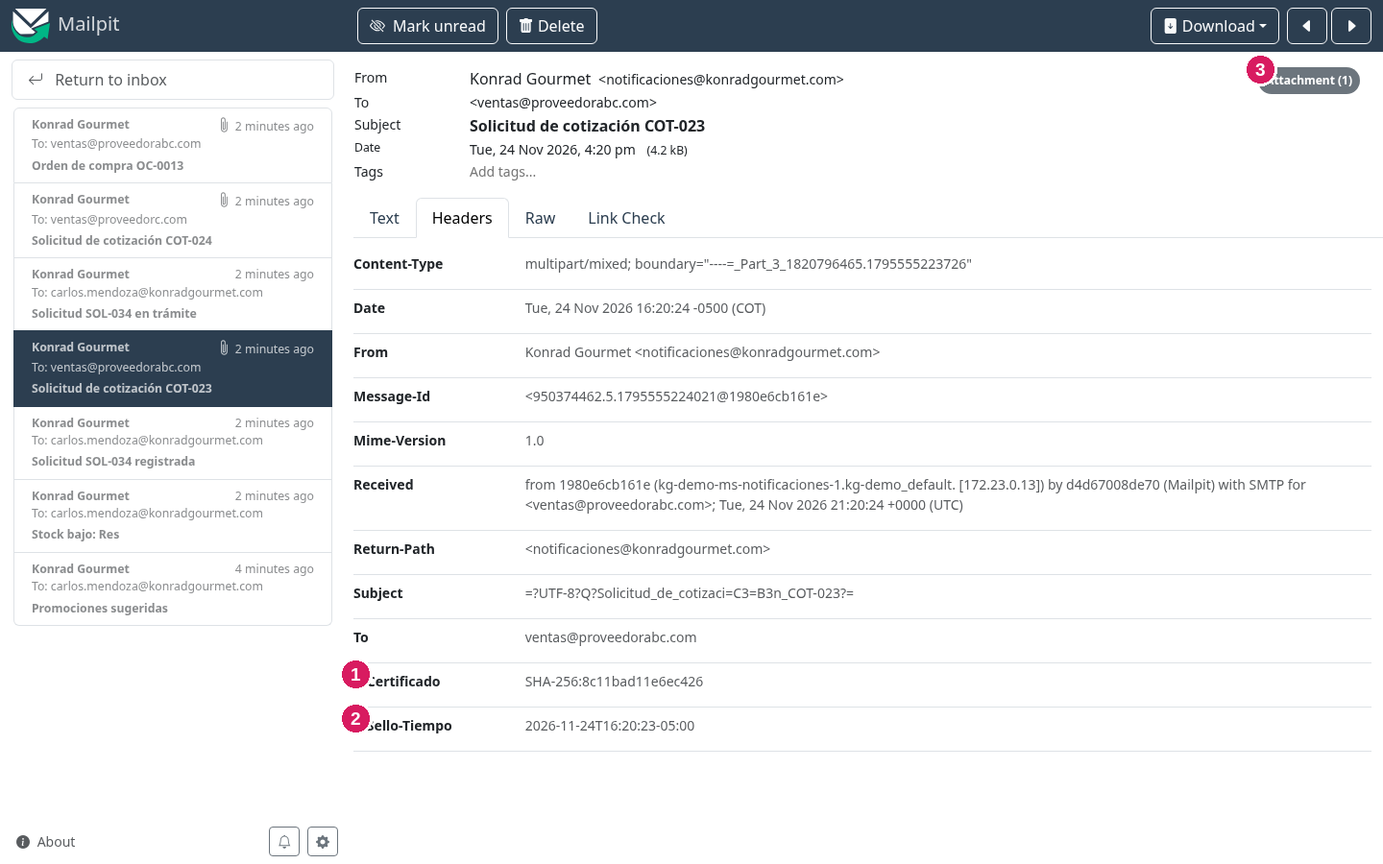
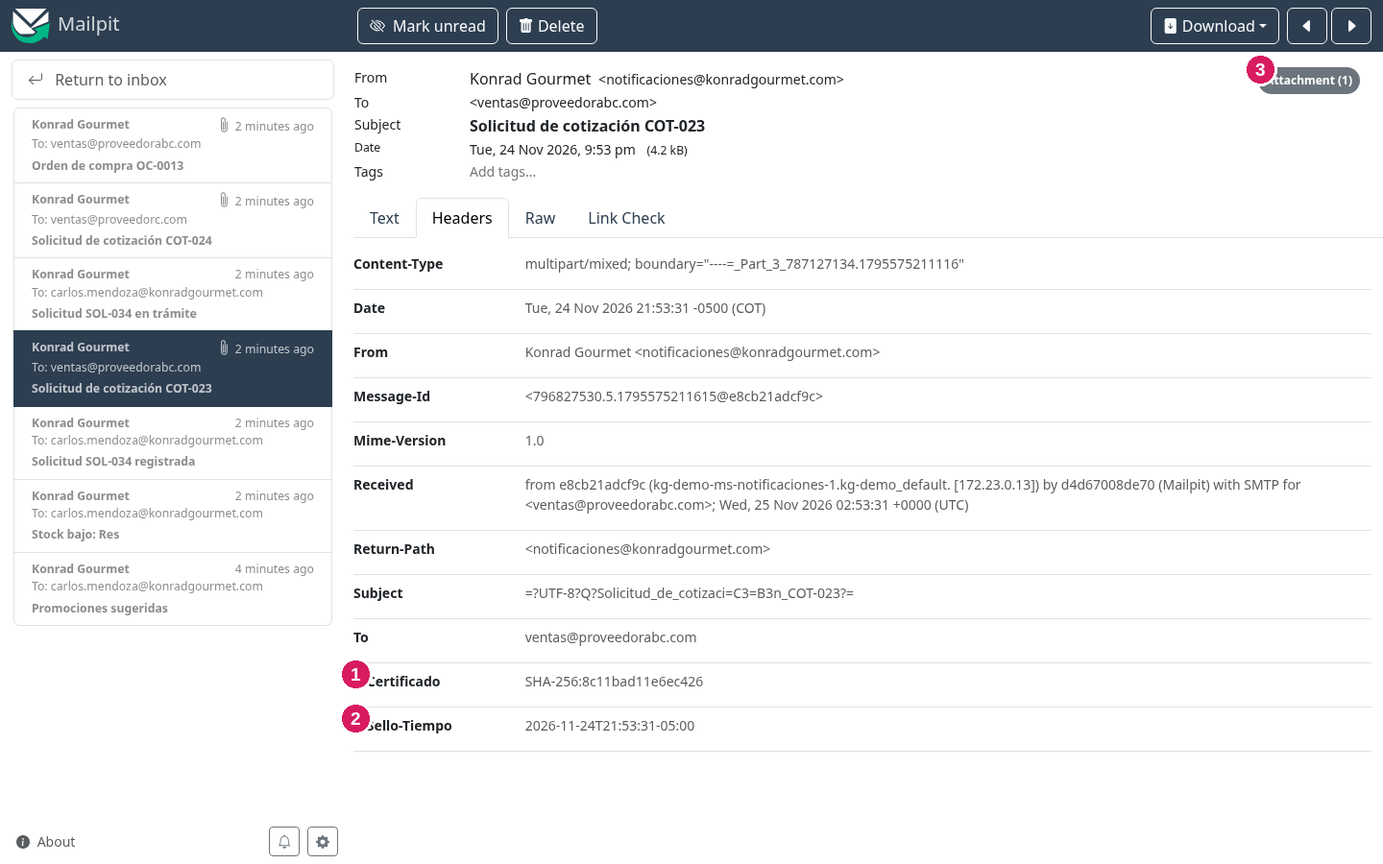
DEC-115 (guía de lo externo): el correo de la orden dice «total $840.000»; la guía muestra su texto real y se niega a generar si el total no va en pesos; salidas e imágenes rehechas en kg-demo con DEC-114

diff --git a/guias_sustentacion/guia_externos.html b/guias_sustentacion/guia_externos.html
@@ -183,7 +183,7 @@ ensayo; los números de la historia (<code>SOL-034</code>, <code>COT-023</code>,
 <code>new CorreoCertificadoDecorator(new EstampaCronologicaDecorator(smtp))</code>. Cada uno agrega su cabecera y pasa el
 mensaje al siguiente; el adaptador SMTP no sabe que existen. Agregar otra garantía (por ejemplo, una firma) es agregar
 otro decorador.</p>
-<div class="visor" id="v-e01_cabeceras" data-w="1440" data-h="900"><div class="barra"><button data-a="ajustar">Ajustar</button><button data-a="menos">−</button><button data-a="mas">+</button><button data-a="real">Tamaño real</button><span>Arrastra para moverte; toca un número para ir a su fila.</span><a href="img/externos/e01_cabeceras.png" target="_blank" rel="noopener">Abrir la imagen</a></div><div class="marco"><div class="lienzo"><img src="img/externos/e01_cabeceras.png" alt="Cabeceras del correo de COT-023 en Mailpit" width="1440" height="900" loading="lazy"><span class="zona" data-n="1" title="1" style="left:25.694%;top:78.000%;width:2.361%;aspect-ratio:1"></span><span class="zona" data-n="2" title="2" style="left:25.694%;top:83.111%;width:2.361%;aspect-ratio:1"></span><span class="zona" data-n="3" title="3" style="left:91.111%;top:8.000%;width:2.361%;aspect-ratio:1"></span></div></div></div><table class="pines"><thead><tr><th class="c-num">N.º</th><th>Qué señalar</th></tr></thead><tbody><tr id="v-e01_cabeceras-n1"><td class="num"><button class="pin" data-visor="v-e01_cabeceras" data-n="1">1</button></td><td><code>X-Certificado: SHA-256:8c11bad11e6ec426</code>: los primeros 8 bytes (16 caracteres) de la huella SHA-256 del destinatario y el cuerpo. Si alguien cambia el texto o el destinatario, la huella ya no coincide.</td></tr><tr id="v-e01_cabeceras-n2"><td class="num"><button class="pin" data-visor="v-e01_cabeceras" data-n="2">2</button></td><td><code>X-Sello-Tiempo: 2026-11-24T16:20:23-05:00</code>: la fecha y hora de Bogotá en que salió, con su zona horaria.</td></tr><tr id="v-e01_cabeceras-n3"><td class="num"><button class="pin" data-visor="v-e01_cabeceras" data-n="3">3</button></td><td>El adjunto COT-023.pdf: el PDF que ms-cotizaciones guardó en el almacén; el evento solo llevaba su dirección.</td></tr></tbody></table>
+<div class="visor" id="v-e01_cabeceras" data-w="1440" data-h="900"><div class="barra"><button data-a="ajustar">Ajustar</button><button data-a="menos">−</button><button data-a="mas">+</button><button data-a="real">Tamaño real</button><span>Arrastra para moverte; toca un número para ir a su fila.</span><a href="img/externos/e01_cabeceras.png" target="_blank" rel="noopener">Abrir la imagen</a></div><div class="marco"><div class="lienzo"><img src="img/externos/e01_cabeceras.png" alt="Cabeceras del correo de COT-023 en Mailpit" width="1440" height="900" loading="lazy"><span class="zona" data-n="1" title="1" style="left:25.694%;top:78.000%;width:2.361%;aspect-ratio:1"></span><span class="zona" data-n="2" title="2" style="left:25.694%;top:83.111%;width:2.361%;aspect-ratio:1"></span><span class="zona" data-n="3" title="3" style="left:91.111%;top:8.000%;width:2.361%;aspect-ratio:1"></span></div></div></div><table class="pines"><thead><tr><th class="c-num">N.º</th><th>Qué señalar</th></tr></thead><tbody><tr id="v-e01_cabeceras-n1"><td class="num"><button class="pin" data-visor="v-e01_cabeceras" data-n="1">1</button></td><td><code>X-Certificado: SHA-256:8c11bad11e6ec426</code>: los primeros 8 bytes (16 caracteres) de la huella SHA-256 del destinatario y el cuerpo. Si alguien cambia el texto o el destinatario, la huella ya no coincide.</td></tr><tr id="v-e01_cabeceras-n2"><td class="num"><button class="pin" data-visor="v-e01_cabeceras" data-n="2">2</button></td><td><code>X-Sello-Tiempo: 2026-11-24T21:53:31-05:00</code>: la fecha y hora de Bogotá en que salió, con su zona horaria.</td></tr><tr id="v-e01_cabeceras-n3"><td class="num"><button class="pin" data-visor="v-e01_cabeceras" data-n="3">3</button></td><td>El adjunto COT-023.pdf: el PDF que ms-cotizaciones guardó en el almacén; el evento solo llevaba su dirección.</td></tr></tbody></table>
 <p>La huella se puede comprobar en vivo con el destinatario y el cuerpo del correo (pestaña <i>Text</i>):</p>
 <div class="term"><div class="cmd"><span>$</span> printf &#x27;%s\n%s&#x27; &#x27;ventas@proveedorabc.com&#x27; &#x27;Por favor cotice los productos del PDF adjunto.&#x27; | sha256sum | cut -c1-16</div><pre class="sal">8c11bad11e6ec426</pre><p class=nota>Da lo mismo que la cabecera <code>X-Certificado</code>.</p></div>
 <h3>El correo de la orden y su PDF</h3>
@@ -191,8 +191,8 @@ otro decorador.</p>
 <div><div class="visor" id="v-d25_mailpit_orden" data-w="1440" data-h="900"><div class="barra"><button data-a="ajustar">Ajustar</button><button data-a="menos">−</button><button data-a="mas">+</button><button data-a="real">Tamaño real</button><span>Arrastra para moverte; toca un número para ir a su fila.</span><a href="img/plataforma/d25_mailpit_orden.png" target="_blank" rel="noopener">Abrir la imagen</a></div><div class="marco"><div class="lienzo"><img src="img/plataforma/d25_mailpit_orden.png" alt="Correo de la orden en Mailpit" width="1440" height="900" loading="lazy"><span class="zona" data-n="1" title="1" style="left:25.694%;top:13.333%;width:2.361%;aspect-ratio:1"></span><span class="zona" data-n="2" title="2" style="left:25.764%;top:50.556%;width:2.361%;aspect-ratio:1"></span></div></div></div><table class="pines"><thead><tr><th class="c-num">N.º</th><th>Qué señalar</th></tr></thead><tbody><tr id="v-d25_mailpit_orden-n1"><td class="num"><button class="pin" data-visor="v-d25_mailpit_orden" data-n="1">1</button></td><td>El asunto, con OC-0013.</td></tr><tr id="v-d25_mailpit_orden-n2"><td class="num"><button class="pin" data-visor="v-d25_mailpit_orden" data-n="2">2</button></td><td>El adjunto OC-0013.pdf.</td></tr></tbody></table></div>
 <div><figure class="vent"><a href="img/plataforma/d21_pdf_orden.png" target="_blank" rel="noopener"><img src="img/plataforma/d21_pdf_orden.png" alt="PDF de la orden" width="935" height="1210" loading="lazy"></a><figcaption>El PDF de OC-0013: el mismo que abre V23 y que va adjunto.</figcaption></figure></div>
 </div>
-<p class="suave">El cuerpo del correo de la orden dice «total 840000» sin formato de pesos (observado, sin
-corregir).</p>
+<p class="suave">El cuerpo del correo de la orden dice «Orden OC-0013 sobre la cotización COT-023, total $840.000. El PDF va adjunto.»: el total en pesos, como en V21 y en el PDF
+(DEC-115).</p>
 <div class="dir"><b>Qué mostrar:</b> la bandeja, el correo de <code>COT-023</code> con la pestaña <i>Headers</i> (las dos
 cabeceras) y su adjunto; si hay tiempo, la huella con <code>sha256sum</code>.</div>
 </section><section class="bloque" id="ministerio"><h2>4. WireMock · el Ministerio de Comercio</h2>
@@ -230,9 +230,9 @@ que se note cuándo responde la caché:</p>
              name=&quot;PreciosEstandarService&quot;&gt;
 … (32 líneas más)</pre><p class=nota>El contrato que sigue <code>MinisterioSoapClient</code>: <code>consultarPrecioEstandar(codigoProducto)</code> → <code>precio</code>. Su comentario dice que lo sirve el contenedor del entorno local: si se muestra en vivo, basta con la respuesta de la res.</p></div>
 <div class="term"><div class="cmd"><span>$</span> kg exec ministerio curl -s -w &#x27;\n%{http_code} en %{time_total} s\n&#x27; -H &#x27;Content-Type: text/xml&#x27; localhost:8080/precios -d &#x27;&lt;soap:Envelope xmlns:soap=&quot;http://schemas.xmlsoap.org/soap/envelope/&quot; xmlns:min=&quot;http://precios.ministerio-comercio.simulado/&quot;&gt;&lt;soap:Body&gt;&lt;min:consultarPrecioEstandar&gt;&lt;codigoProducto&gt;1&lt;/codigoProducto&gt;&lt;/min:consultarPrecioEstandar&gt;&lt;/soap:Body&gt;&lt;/soap:Envelope&gt;&#x27;</div><pre class="sal">&lt;soap:Envelope xmlns:soap=&quot;http://schemas.xmlsoap.org/soap/envelope/&quot;&gt;&lt;soap:Body&gt;&lt;min:consultarPrecioEstandarResponse xmlns:min=&quot;http://precios.ministerio-comercio.simulado/&quot;&gt;&lt;precio&gt;20000.0&lt;/precio&gt;&lt;/min:consultarPrecioEstandarResponse&gt;&lt;/soap:Body&gt;&lt;/soap:Envelope&gt;
-200 en 0.305221 s</pre><p class=nota>La res: 20000.0, en unos 300 ms.</p></div>
+200 en 0.306917 s</pre><p class=nota>La res: 20000.0, en unos 300 ms.</p></div>
 <div class="term"><div class="cmd"><span>$</span> kg exec ministerio curl -s -w &#x27;\n%{http_code} en %{time_total} s\n&#x27; -H &#x27;Content-Type: text/xml&#x27; localhost:8080/precios -d &#x27;&lt;soap:Envelope xmlns:soap=&quot;http://schemas.xmlsoap.org/soap/envelope/&quot; xmlns:min=&quot;http://precios.ministerio-comercio.simulado/&quot;&gt;&lt;soap:Body&gt;&lt;min:consultarPrecioEstandar&gt;&lt;codigoProducto&gt;99&lt;/codigoProducto&gt;&lt;/min:consultarPrecioEstandar&gt;&lt;/soap:Body&gt;&lt;/soap:Envelope&gt;&#x27;</div><pre class="sal">&lt;soap:Envelope xmlns:soap=&quot;http://schemas.xmlsoap.org/soap/envelope/&quot;&gt;&lt;soap:Body&gt;&lt;soap:Fault&gt;&lt;faultcode&gt;soap:Client&lt;/faultcode&gt;&lt;faultstring&gt;El Ministerio no tiene precio para el producto 99&lt;/faultstring&gt;&lt;/soap:Fault&gt;&lt;/soap:Body&gt;&lt;/soap:Envelope&gt;
-500 en 0.351820 s</pre><p class=nota>Un producto sin precio: SOAP Fault con el código 500. ms-integracion lo convierte en un error del puerto y la cotización queda PENDIENTE DE PRECIO.</p></div>
+500 en 0.359876 s</pre><p class=nota>Un producto sin precio: SOAP Fault con el código 500. ms-integracion lo convierte en un error del puerto y la cotización queda PENDIENTE DE PRECIO.</p></div>
 <h3>La cuenta de llamadas: la caché de Redis</h3>
 <p>En el ensayo se generaron dos cotizaciones de res (<code>COT-023</code> y <code>COT-024</code>). WireMock lleva la cuenta
 de lo que recibe, y antes de las consultas a mano de arriba tenía una sola llamada: la primera cotización le preguntó al
@@ -241,8 +241,8 @@ Ministerio y la segunda la respondió el Proxy desde Redis.</p>
   &quot;count&quot; : 1,
   &quot;requestJournalDisabled&quot; : false
 }</pre><p class=nota>Ojo: las consultas a mano con <code>curl</code> también cuentan; para mostrar la caché, contar antes de probar.</p></div>
-<div class="term"><div class="cmd"><span>$</span> kg exec redis redis-cli GET precio-referencia:1</div><pre class="sal">{&quot;productoId&quot;:1,&quot;valor&quot;:&quot;20000.0&quot;,&quot;consultadoEn&quot;:&quot;2026-11-24T16:20:23.172804749&quot;}</pre></div>
-<div class="term"><div class="cmd"><span>$</span> kg exec redis redis-cli TTL precio-referencia:1</div><pre class="sal">86322</pre><p class=nota>Segundos que le quedan: la llave vence en un día (supuesto S3), el mismo plazo con que el Proxy da por vencido un precio.</p></div>
+<div class="term"><div class="cmd"><span>$</span> kg exec redis redis-cli GET precio-referencia:1</div><pre class="sal">{&quot;productoId&quot;:1,&quot;valor&quot;:&quot;20000.0&quot;,&quot;consultadoEn&quot;:&quot;2026-11-24T21:53:30.291167270&quot;}</pre></div>
+<div class="term"><div class="cmd"><span>$</span> kg exec redis redis-cli TTL precio-referencia:1</div><pre class="sal">86318</pre><p class=nota>Segundos que le quedan: la llave vence en un día (supuesto S3), el mismo plazo con que el Proxy da por vencido un precio.</p></div>
 <h3>Si el Ministerio no responde</h3>
 <div class="par">
 <div><figure class="vent"><a href="img/plataforma/reenviar.png" target="_blank" rel="noopener"><img src="img/plataforma/reenviar.png" alt="Cotización pendiente de precio" width="1440" height="900" loading="lazy"></a><figcaption>«Reenviar una cotización»: la cotización quedó PENDIENTE DE PRECIO y se reenvía cuando el Ministerio vuelve.</figcaption></figure></div>
@@ -270,18 +270,18 @@ Se publica a lo sumo un evento por día.</dd>
 en tendencia de la semana, de más a menos menciones, con 200 ms de demora; sin token, 401.</p>
 <table><thead><tr><th>Producto</th><th>Menciones</th></tr></thead><tbody><tr><td>Ajiaco</td><td>1.840</td></tr><tr><td>Limonada natural</td><td>960</td></tr></tbody></table>
 <div class="term"><div class="cmd"><span>$</span> kg exec redes curl -s -w &#x27;\n%{http_code} en %{time_total} s\n&#x27; -H &#x27;Authorization: Bearer konrad-redes-local&#x27; &#x27;localhost:8080/v1/tendencias?pais=CO&amp;categoria=gastronomia&amp;periodo=semana&#x27;</div><pre class="sal">{&quot;pais&quot;:&quot;CO&quot;,&quot;categoria&quot;:&quot;gastronomia&quot;,&quot;periodo&quot;:&quot;semana&quot;,&quot;tendencias&quot;:[{&quot;producto&quot;:&quot;Ajiaco&quot;,&quot;menciones&quot;:1840},{&quot;producto&quot;:&quot;Limonada natural&quot;,&quot;menciones&quot;:960}]}
-200 en 0.203463 s</pre></div>
+200 en 0.203022 s</pre></div>
 <div class="term"><div class="cmd"><span>$</span> kg exec redes curl -s -w &#x27;\n%{http_code}\n&#x27; &#x27;localhost:8080/v1/tendencias?pais=CO&amp;categoria=gastronomia&amp;periodo=semana&#x27;</div><pre class="sal">{&quot;error&quot;:&quot;token de acceso inválido&quot;}
 401</pre></div>
 <h3>La cuenta sube sola</h3>
 <div class="term"><div class="cmd"><span>$</span> kg exec redes curl -s -X POST localhost:8080/__admin/requests/count -d &#x27;{&quot;method&quot;:&quot;GET&quot;,&quot;urlPath&quot;:&quot;/v1/tendencias&quot;}&#x27;</div><pre class="sal">{
-  &quot;count&quot; : 7,
+  &quot;count&quot; : 6,
   &quot;requestJournalDisabled&quot; : false
 }</pre></div>
 <div class="term"><div class="cmd"><span>$</span> kg exec redes curl -s -X POST localhost:8080/__admin/requests/count -d &#x27;{&quot;method&quot;:&quot;GET&quot;,&quot;urlPath&quot;:&quot;/v1/tendencias&quot;}&#x27;</div><pre class="sal">{
-  &quot;count&quot; : 8,
+  &quot;count&quot; : 7,
   &quot;requestJournalDisabled&quot; : false
-}</pre><p class=nota>31 segundos después: 7 → 8. Es <code>TendenciasJob</code>, no nosotros.</p></div>
+}</pre><p class=nota>31 segundos después: 6 → 7. Es <code>TendenciasJob</code>, no nosotros.</p></div>
 <div class="visor" id="v-e02_promociones" data-w="1440" data-h="900"><div class="barra"><button data-a="ajustar">Ajustar</button><button data-a="menos">−</button><button data-a="mas">+</button><button data-a="real">Tamaño real</button><span>Arrastra para moverte; toca un número para ir a su fila.</span><a href="img/externos/e02_promociones.png" target="_blank" rel="noopener">Abrir la imagen</a></div><div class="marco"><div class="lienzo"><img src="img/externos/e02_promociones.png" alt="Correo de promociones en Mailpit" width="1440" height="900" loading="lazy"><span class="zona" data-n="1" title="1" style="left:25.694%;top:29.556%;width:2.361%;aspect-ratio:1"></span></div></div></div><table class="pines"><thead><tr><th class="c-num">N.º</th><th>Qué señalar</th></tr></thead><tbody><tr id="v-e02_promociones-n1"><td class="num"><button class="pin" data-visor="v-e02_promociones" data-n="1">1</button></td><td>El correo que sale de <code>tendencia.detectada</code>: una línea por plato sugerido, con su motivo (en tendencia en redes, entre los 3 más pedidos de la semana o las dos cosas) y su vigencia.</td></tr></tbody></table>
 <div class="dir"><b>Qué mostrar:</b> la respuesta con el token, el 401 sin él y la cuenta antes y después de 30 segundos;
 luego el correo de promociones en Mailpit.</div>
@@ -331,10 +331,10 @@ ms-notificaciones descarga el PDF para adjuntarlo.</dd>
 2026-11-23 19:58:00       2329 cotizaciones/COT-020.pdf
 2026-11-23 19:58:01       2332 cotizaciones/COT-021.pdf
 2026-11-23 19:58:37       2226 cotizaciones/COT-022.pdf
-2026-11-24 21:20:23       2232 cotizaciones/COT-023.pdf
-2026-11-24 21:20:25       2226 cotizaciones/COT-024.pdf
+2026-11-25 02:53:30       2232 cotizaciones/COT-023.pdf
+2026-11-25 02:53:33       2226 cotizaciones/COT-024.pdf
 2026-11-23 19:58:05       2308 ordenes/OC-0012.pdf
-2026-11-24 21:20:34       2183 ordenes/OC-0013.pdf</pre><p class=nota>COT-023, COT-024 y OC-0013 son los del ensayo; los anteriores vienen con los datos de la demo.</p></div>
+2026-11-25 02:53:42       2183 ordenes/OC-0013.pdf</pre><p class=nota>COT-023, COT-024 y OC-0013 son los del ensayo; los anteriores vienen con los datos de la demo.</p></div>
 <div class="term"><div class="cmd"><span>$</span> kgs3 s3 ls --recursive s3://imagenes-platos</div><pre class="sal">(no imprime nada)</pre><p class=nota>Vacío en la demo: los platos de la carta inicial no tienen foto (V03 muestra su ícono). El bucket se llena cuando el jefe de cocina sube la foto de un plato en V06.</p></div>
 <div class="par">
 <div><figure class="vent"><a href="img/plataforma/d12_pdf_cotizacion.png" target="_blank" rel="noopener"><img src="img/plataforma/d12_pdf_cotizacion.png" alt="PDF de la cotización" width="935" height="1210" loading="lazy"></a><figcaption>El PDF de COT-023 (V14): sale de <code>documentos-pdf/cotizaciones/</code>.</figcaption></figure></div>
@@ -388,10 +388,10 @@ inventario.stock-bajo 0 0
 inventario.stock-bajo 1 -
 solicitud.en-tramite 2 -
 solicitud.en-tramite 1 -
-tendencia.detectada 1 0
+tendencia.detectada 1 -
 solicitud.en-tramite 0 0
-tendencia.detectada 0 -</pre><p class=nota>Tópico, partición y atraso (LAG) del grupo de ms-notificaciones: 0 es que ya procesó todo; «-», una partición que todavía no ha recibido eventos (cada tópico tiene tres).</p></div>
-<div class="term"><div class="cmd"><span>$</span> kg exec kafka /opt/kafka/bin/kafka-console-consumer.sh --bootstrap-server localhost:9092 --topic orden.generada --from-beginning --timeout-ms 8000</div><pre class="sal">{&quot;usuario&quot;:&quot;laura.gomez@konradgourmet.com&quot;,&quot;numero&quot;:&quot;OC-0013&quot;,&quot;cotizacionNumero&quot;:&quot;COT-023&quot;,&quot;solicitudNumeros&quot;:[&quot;SOL-034&quot;],&quot;proveedor&quot;:&quot;Proveedor ABC&quot;,&quot;correoProveedor&quot;:&quot;ventas@proveedorabc.com&quot;,&quot;pdfUrl&quot;:&quot;s3://documentos-pdf/ordenes/OC-0013.pdf&quot;,&quot;total&quot;:8.4E+5,&quot;id&quot;:&quot;9a2038f8-efc3-4c0f-b75e-28a413c55ff8&quot;,&quot;correlacionId&quot;:&quot;9b7ab6f8-9b2b-4126-8095-a7c0968c2fb2&quot;,&quot;ocurridoEn&quot;:&quot;2026-11-24T16:20:34.414213694&quot;}</pre><p class=nota>El evento <code>orden.generada</code> de OC-0013 lleva <code>pdfUrl</code> (la dirección en el almacén), el correo de quien lo hizo y la correlación del recorrido.</p></div>
+tendencia.detectada 0 0</pre><p class=nota>Tópico, partición y atraso (LAG) del grupo de ms-notificaciones: 0 es que ya procesó todo; «-», una partición que todavía no ha recibido eventos (cada tópico tiene tres).</p></div>
+<div class="term"><div class="cmd"><span>$</span> kg exec kafka /opt/kafka/bin/kafka-console-consumer.sh --bootstrap-server localhost:9092 --topic orden.generada --from-beginning --timeout-ms 8000</div><pre class="sal">{&quot;usuario&quot;:&quot;laura.gomez@konradgourmet.com&quot;,&quot;numero&quot;:&quot;OC-0013&quot;,&quot;cotizacionNumero&quot;:&quot;COT-023&quot;,&quot;solicitudNumeros&quot;:[&quot;SOL-034&quot;],&quot;proveedor&quot;:&quot;Proveedor ABC&quot;,&quot;correoProveedor&quot;:&quot;ventas@proveedorabc.com&quot;,&quot;pdfUrl&quot;:&quot;s3://documentos-pdf/ordenes/OC-0013.pdf&quot;,&quot;total&quot;:8.4E+5,&quot;id&quot;:&quot;747d440e-4f9f-44f1-916e-f641ae6f4c09&quot;,&quot;correlacionId&quot;:&quot;ea774b3c-080a-4f50-96e0-fdf3d9fb18d2&quot;,&quot;ocurridoEn&quot;:&quot;2026-11-24T21:53:43.006484616&quot;}</pre><p class=nota>El evento <code>orden.generada</code> de OC-0013 lleva <code>pdfUrl</code> (la dirección en el almacén), el correo de quien lo hizo y la correlación del recorrido.</p></div>
 </section><section class="bloque" id="redis"><h2>10. Redis · caché, alarmas y límite de tasa</h2>
 <dl class="ficha">
 <dt>Qué es</dt><dd>p. 3a · n.º 13; p. 5 · n.º 17. Tres usos separados: la caché de precios del
@@ -409,16 +409,16 @@ alarmas:stock-bajo
 1
 message
 alarmas:stock-bajo
-{&quot;destino&quot;:&quot;carlos.mendoza@konradgourmet.com&quot;,&quot;contenido&quot;:&quot;Res al 22 %: realice una solicitud&quot;,&quot;fechaHora&quot;:&quot;2026-11-24T16:20:12&quot;}</pre></div>
+{&quot;destino&quot;:&quot;carlos.mendoza@konradgourmet.com&quot;,&quot;contenido&quot;:&quot;Res al 22 %: realice una solicitud&quot;,&quot;fechaHora&quot;:&quot;2026-11-24T21:53:19&quot;}</pre></div>
 <h3>El límite de tasa</h3>
-<div class="term"><div class="cmd"><span>$</span> kg exec redis redis-cli --scan --pattern &#x27;request_rate_limiter*&#x27;</div><pre class="sal">request_rate_limiter.{identidad-auth.ip:172.23.0.1}.timestamp
-request_rate_limiter.{analitica-bam.usuario:5}.timestamp
-request_rate_limiter.{identidad-auth.ip:172.23.0.1}.tokens
+<div class="term"><div class="cmd"><span>$</span> kg exec redis redis-cli --scan --pattern &#x27;request_rate_limiter*&#x27;</div><pre class="sal">request_rate_limiter.{analitica-bam.usuario:5}.timestamp
 request_rate_limiter.{solicitudes-solicitudes.usuario:2}.timestamp
-request_rate_limiter.{solicitudes-solicitudes.usuario:2}.tokens
 request_rate_limiter.{administracion-admin.usuario:5}.timestamp
-request_rate_limiter.{analitica-bam.usuario:5}.tokens
-request_rate_limiter.{administracion-admin.usuario:5}.tokens</pre><p class=nota>Un balde por usuario con sesión (<code>usuario:2</code> es el jefe de cocina) y otro por IP para el inicio de sesión. Duran unos segundos, así que hay que consultarlos justo después de usar la aplicación.</p></div>
+request_rate_limiter.{administracion-admin.usuario:5}.tokens
+request_rate_limiter.{identidad-auth.ip:172.23.0.1}.timestamp
+request_rate_limiter.{identidad-auth.ip:172.23.0.1}.tokens
+request_rate_limiter.{solicitudes-solicitudes.usuario:2}.tokens
+request_rate_limiter.{analitica-bam.usuario:5}.tokens</pre><p class=nota>Un balde por usuario con sesión (<code>usuario:2</code> es el jefe de cocina) y otro por IP para el inicio de sesión. Duran unos segundos, así que hay que consultarlos justo después de usar la aplicación.</p></div>
 </section><section class="bloque" id="postgres"><h2>11. PostgreSQL · una base por servicio</h2>
 <dl class="ficha">
 <dt>Qué es</dt><dd>p. 5 · n.º 16: una base por servicio, cada una con su usuario, que no puede entrar a las demás.</dd>
@@ -468,20 +468,20 @@ un archivo temporal que borra al detenerse, así que con <code>stop</code> la ba
           &quot;servicio&quot; : &quot;ms-notificaciones&quot;,
           &quot;nivel&quot; : &quot;ERROR&quot;,
           &quot;mensaje&quot; : &quot;No se pudo notificar un evento de solicitud.registrada después de 3 intentos; pasa a la cola de errores notificaciones.dlq · java.net.SocketTimeoutException: Read timed out&quot;,
-          &quot;fechaHora&quot; : &quot;2026-11-24T16:22:57.94142154-05:00&quot;,
-          &quot;correlacionId&quot; : &quot;ce6f14c3-e04a-4e24-b5a9-8a378b8da9ef&quot;
+          &quot;fechaHora&quot; : &quot;2026-11-24T21:56:12.815056993-05:00&quot;,
+          &quot;correlacionId&quot; : &quot;bce48c28-89eb-47d0-8bf3-c80bedd2cd3e&quot;
         }
       }
     ]
   }
 }</pre></div><div class="term"><div class="cmd"><span>$</span> kg exec elasticsearch curl -s &#x27;localhost:9200/_cat/indices?v&#x27;</div><pre class="sal">health status index        uuid                   pri rep docs.count docs.deleted store.size pri.store.size dataset.size
-green  open   logs-errores VAQo870BSnGqf6EPMFg73g   1   0          1            0     10.8kb         10.8kb       10.8kb</pre></div>
-<div class="visor" id="v-e03_logs_error" data-w="1440" data-h="900"><div class="barra"><button data-a="ajustar">Ajustar</button><button data-a="menos">−</button><button data-a="mas">+</button><button data-a="real">Tamaño real</button><span>Arrastra para moverte; toca un número para ir a su fila.</span><a href="img/externos/e03_logs_error.png" target="_blank" rel="noopener">Abrir la imagen</a></div><div class="marco"><div class="lienzo"><img src="img/externos/e03_logs_error.png" alt="Logs de errores con el error" width="1440" height="900" loading="lazy"><span class="zona" data-n="1" title="1" style="left:30.694%;top:40.444%;width:2.361%;aspect-ratio:1"></span><span class="zona" data-n="2" title="2" style="left:41.111%;top:40.444%;width:2.361%;aspect-ratio:1"></span></div></div></div><table class="pines"><thead><tr><th class="c-num">N.º</th><th>Qué señalar</th></tr></thead><tbody><tr id="v-e03_logs_error-n1"><td class="num"><button class="pin" data-visor="v-e03_logs_error" data-n="1">1</button></td><td>El servicio que falló: ms-notificaciones.</td></tr><tr id="v-e03_logs_error-n2"><td class="num"><button class="pin" data-visor="v-e03_logs_error" data-n="2">2</button></td><td>El mensaje: qué evento no se pudo notificar, después de cuántos intentos, que pasó a la cola de errores y por qué (el servidor no respondió).</td></tr></tbody></table>
+green  open   logs-errores hBLue5iaSJC3FWZB8OO3kw   1   0          1            0     10.8kb         10.8kb       10.8kb</pre></div>
+<div class="visor" id="v-e03_logs_error" data-w="1440" data-h="900"><div class="barra"><button data-a="ajustar">Ajustar</button><button data-a="menos">−</button><button data-a="mas">+</button><button data-a="real">Tamaño real</button><span>Arrastra para moverte; toca un número para ir a su fila.</span><a href="img/externos/e03_logs_error.png" target="_blank" rel="noopener">Abrir la imagen</a></div><div class="marco"><div class="lienzo"><img src="img/externos/e03_logs_error.png" alt="Logs de errores con el error" width="1440" height="900" loading="lazy"><span class="zona" data-n="1" title="1" style="left:30.556%;top:40.444%;width:2.361%;aspect-ratio:1"></span><span class="zona" data-n="2" title="2" style="left:40.903%;top:40.444%;width:2.361%;aspect-ratio:1"></span></div></div></div><table class="pines"><thead><tr><th class="c-num">N.º</th><th>Qué señalar</th></tr></thead><tbody><tr id="v-e03_logs_error-n1"><td class="num"><button class="pin" data-visor="v-e03_logs_error" data-n="1">1</button></td><td>El servicio que falló: ms-notificaciones.</td></tr><tr id="v-e03_logs_error-n2"><td class="num"><button class="pin" data-visor="v-e03_logs_error" data-n="2">2</button></td><td>El mensaje: qué evento no se pudo notificar, después de cuántos intentos, que pasó a la cola de errores y por qué (el servidor no respondió).</td></tr></tbody></table>
 <div class="term"><div class="cmd"><span>$</span> kg exec kafka /opt/kafka/bin/kafka-get-offsets.sh --bootstrap-server localhost:9092 --topic notificaciones.dlq</div><pre class="sal">notificaciones.dlq:0:0
 notificaciones.dlq:1:1
 notificaciones.dlq:2:0</pre><p class=nota>La cola de errores tiene un evento más (0 → 1).</p></div></li>
 <li><b>Reanudar el correo.</b><div class="term"><div class="cmd"><span>$</span> kg unpause correo</div><pre class="sal">(no imprime nada)</pre></div> <code>ReprocesoColaErrores</code> vuelve a procesar la cola cada
-30 s en el equipo (5 min por defecto); en el ensayo el correo llegó a los 24 s.
+30 s en el equipo (5 min por defecto); en el ensayo el correo llegó a los 23 s.
 <div class="visor" id="v-e04_mailpit_reenvio" data-w="1440" data-h="900"><div class="barra"><button data-a="ajustar">Ajustar</button><button data-a="menos">−</button><button data-a="mas">+</button><button data-a="real">Tamaño real</button><span>Arrastra para moverte; toca un número para ir a su fila.</span><a href="img/externos/e04_mailpit_reenvio.png" target="_blank" rel="noopener">Abrir la imagen</a></div><div class="marco"><div class="lienzo"><img src="img/externos/e04_mailpit_reenvio.png" alt="Mailpit con el correo reenviado" width="1440" height="900" loading="lazy"><span class="zona" data-n="1" title="1" style="left:17.222%;top:7.111%;width:2.361%;aspect-ratio:1"></span></div></div></div><table class="pines"><thead><tr><th class="c-num">N.º</th><th>Qué señalar</th></tr></thead><tbody><tr id="v-e04_mailpit_reenvio-n1"><td class="num"><button class="pin" data-visor="v-e04_mailpit_reenvio" data-n="1">1</button></td><td>«Solicitud SOL-035 registrada»: llegó una sola vez, sin repetir los anteriores.</td></tr></tbody></table></li>
 </ol>
 <div class="dir"><b>Qué decir:</b> «Si el servidor de correo no responde, la solicitud igual queda registrada; el correo se

diff --git a/guias_sustentacion/fuente/generar_guia_externos.py b/guias_sustentacion/fuente/generar_guia_externos.py
@@ -436,8 +436,8 @@ otro decorador.</p>
 <div>{con_pines("plataforma", DP, "d25_mailpit_orden", "Correo de la orden en Mailpit", [f"El asunto, con {OC}.", f"El adjunto {OC}.pdf."])}</div>
 <div>{figura("plataforma", DP, "d21_pdf_orden", "PDF de la orden", f"El PDF de {OC}: el mismo que abre V23 y que va adjunto.")}</div>
 </div>
-<p class="suave">El cuerpo del correo de la orden dice «total {HIS['orden_total']}» sin formato de pesos (observado, sin
-corregir).</p>
+<p class="suave">El cuerpo del correo de la orden dice «{E(cuerpo_orden())}»: el total en pesos, como en V21 y en el PDF
+(DEC-115).</p>
 <div class="dir"><b>Qué mostrar:</b> la bandeja, el correo de {c(COT1['numero'])} con la pestaña <i>Headers</i> (las dos
 cabeceras) y su adjunto; si hay tiempo, la huella con <code>sha256sum</code>.</div>
 """
@@ -575,6 +575,14 @@ Lee solo ms-administracion (<code>ElasticsearchLogsAdapter</code>) para la venta
 <p>Para ver un error de verdad, el paso opcional de la sección 13 detiene el correo un momento: el error aparece aquí con
 su servicio, su mensaje y la correlación del recorrido.</p>
 """
+
+
+def cuerpo_orden():
+    """El texto del correo de la orden en Mailpit, tal como salió en el ensayo; el total tiene que ir en pesos (DEC-115)."""
+    cuerpo = next((x["cuerpo"] for x in HE["correos"] if x["asunto"] == f"Orden de compra {OC}"), "").strip()
+    total = "$" + f"{HIS['orden_total']:,}".replace(",", ".")
+    exige(f"total {total}." in cuerpo, f"el correo de la orden no dice «total {total}»: {cuerpo!r}")
+    return cuerpo
 
 
 def seccion_kafka():
